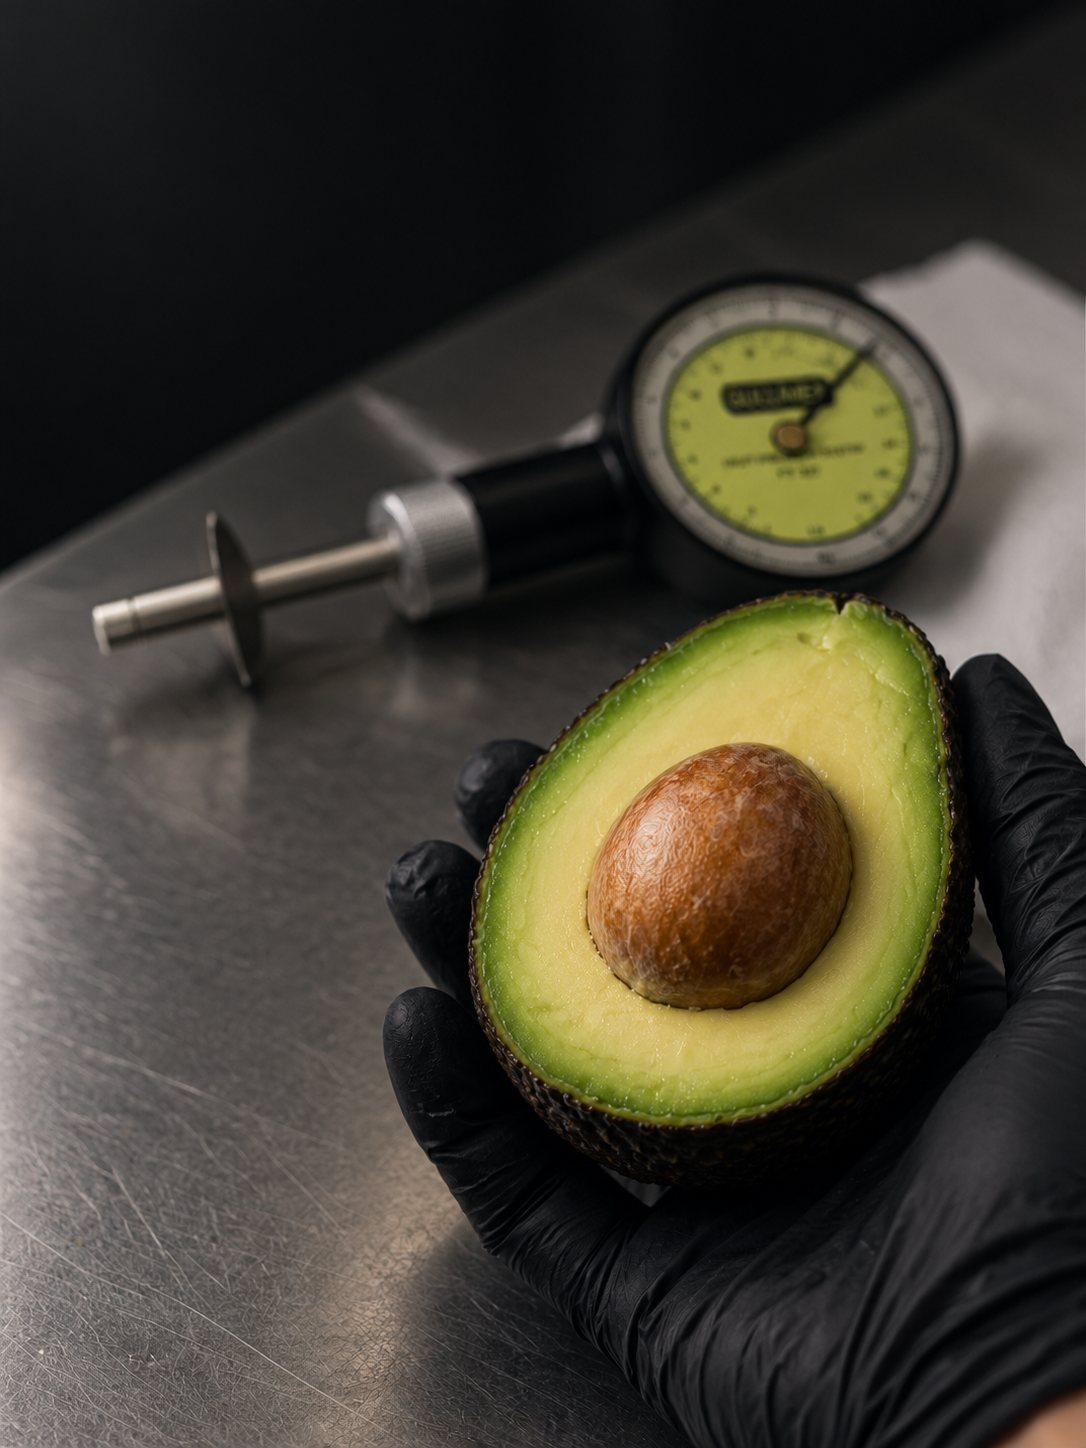
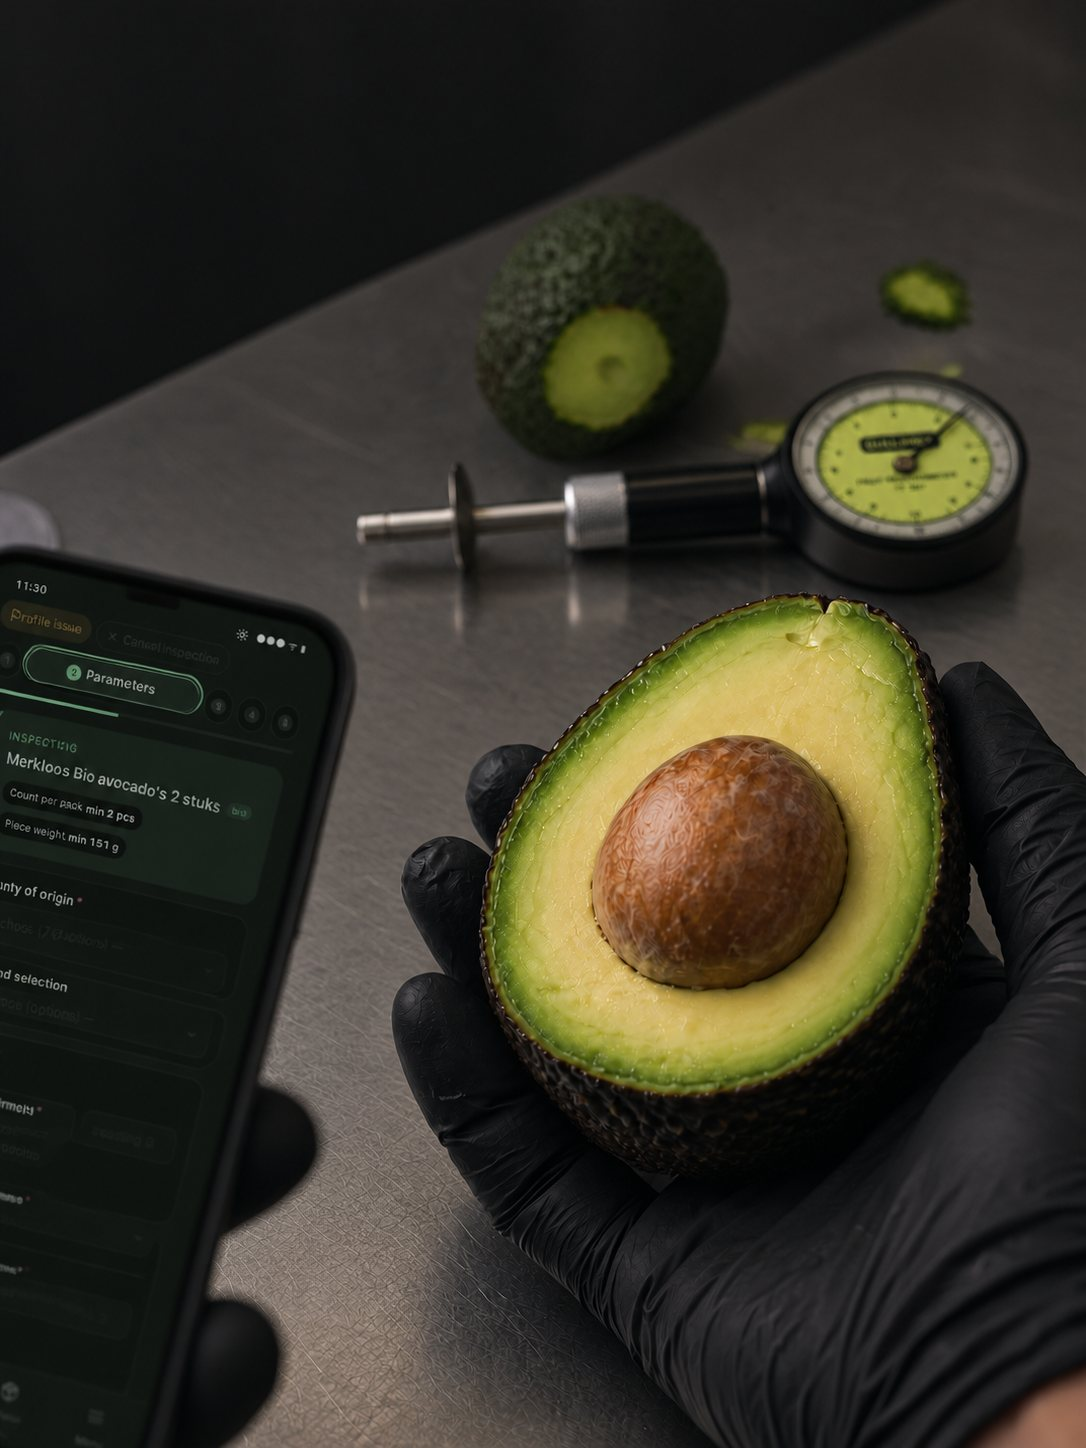
Sign-in hero: avocado inspection with the phone app in frame
Claude-Session: https://claude.ai/code/session_01D8tjnUiivyrGcLWB3k9XYc

diff --git a/src/Portal.jsx b/src/Portal.jsx
@@ -1281,7 +1281,7 @@ const writeSession = id => { try { if (id) localStorage.setItem(SESSION_KEY, id)
 // Any number of devices and people can be signed in at once (portal + phones). Concurrent edits are merged by the
 // shared syncer (src/sync.js): every edit is a function applied on top of the server's latest copy, never a blind overwrite.
 // Bump when public/login-hero.jpg changes: the service worker and the browser cache the old picture under the same URL.
-const LOGIN_HERO_V = "2";
+const LOGIN_HERO_V = "3";
 function LoginScreen({ s, onLogin, allowRoles }) {
   // Always the prototype's dark theme, whatever the app is set to: the sign-in page is the front door, one look.
   const D = DARK;
@@ -1324,7 +1324,7 @@ function LoginScreen({ s, onLogin, allowRoles }) {
         .qc-login-form{position:relative;overflow:hidden;display:flex;align-items:center;justify-content:center;padding:48px 32px;background:#0D1410}
         .qc-login-form>div{position:relative}
         .qc-login-brand{position:relative;overflow:hidden;display:flex;flex-direction:column;justify-content:space-between;padding:56px 56px 48px;color:#EEF5F0;background:linear-gradient(160deg,${green2} 0%,${green} 70%)}
-        .qc-login-brand .hero{position:absolute;inset:0;width:100%;height:100%;object-fit:cover;object-position:55% 60%;opacity:.9;filter:saturate(.85) contrast(1.03)}
+        .qc-login-brand .hero{position:absolute;inset:0;width:100%;height:100%;object-fit:cover;object-position:60% 55%;opacity:.92;filter:saturate(.85) contrast(1.03)}
         .qc-login-brand .tint{position:absolute;inset:0;background:linear-gradient(180deg,rgba(11,36,24,.8) 0%,rgba(11,36,24,.5) 34%,rgba(11,36,24,.18) 55%,rgba(11,36,24,.45) 78%,rgba(11,36,24,.92) 100%),linear-gradient(90deg,rgba(11,36,24,.35),rgba(11,36,24,0) 60%)}
         .qc-login-brand .grain{position:absolute;inset:0;background:radial-gradient(1100px 600px at -10% -10%,rgba(255,255,255,.12),transparent 60%);pointer-events:none}
         .qc-login-brand .lines{position:absolute;inset:0;opacity:.06;background-image:linear-gradient(rgba(255,255,255,.9) 1px,transparent 1px),linear-gradient(90deg,rgba(255,255,255,.9) 1px,transparent 1px);background-size:48px 48px;pointer-events:none}
